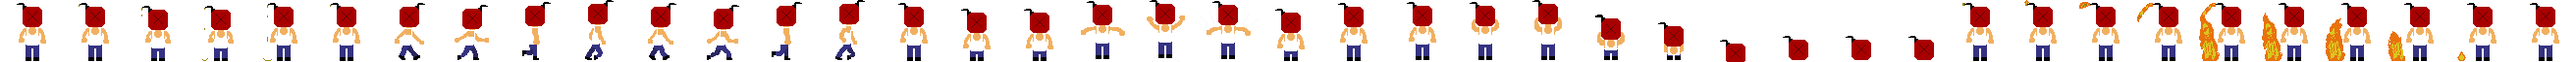
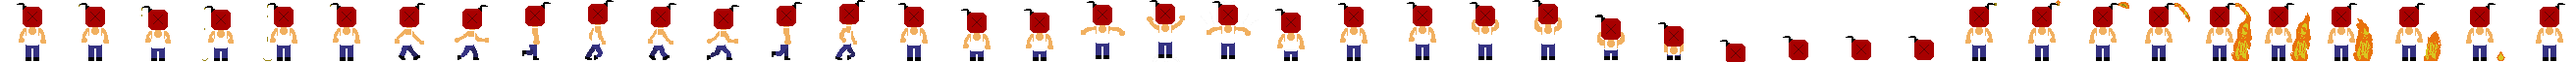
pretty much done

Changed region(s): [[0.75, 0.0312, 1.0, 1.0]]

diff --git a/GDS_126_Engine/GDS_126_Engine/js/GameStates/menu.js b/GDS_126_Engine/GDS_126_Engine/js/GameStates/menu.js
@@ -3,14 +3,14 @@ This file contains all of the code for the Main Menu
 ----------------------------------*/
 
 var startButton = new GameObject();
-//startButton.img.src="images/mrt.jpg"
+startButton.img.src="images/Start.png"
 startButton.width=200;
 startButton.hitBoxWidth=800
 console.log(startButton.collisionPoints.right)
 
 
 var menuBackground = new GameObject();
-menuBackground.img.src = "images/mrt.jpg"
+menuBackground.img.src = "images/menu.png"
 menuBackground.width=canvas.width
 menuBackground.height=canvas.height
 

diff --git a/GDS_126_Engine/GDS_126_Engine/js/Data/player.js b/GDS_126_Engine/GDS_126_Engine/js/Data/player.js
@@ -111,6 +111,23 @@ var playerData ={
 				
 			]
 		}
+	}	
+}
+var playerShot ={
+	info:{
+		src:`images/fire.png`
+	},
+	states:{
+    	idle:
+		{
+			fps:15,
+			cycle:true,
+			frames:
+			[
+				{width:64, height:64, startX:0, startY:0},
+				{width:64, height:64, startX:64, startY:0},
+				{width:64, height:64, startX:128, startY:0}
+			]
+		}
 	}
-		
 }

diff --git a/GDS_126_Engine/GDS_126_Engine/js/GameStates/level1.js b/GDS_126_Engine/GDS_126_Engine/js/GameStates/level1.js
@@ -89,9 +89,9 @@ for(let i=0; i<100; i++)
 {
 	bullets[i] = new GameObject({width:64, height:64})
 	//bullets[i].img.src="images/mrt.jpg"
-	bullets[i].makeSprite(playerData)
+	bullets[i].makeSprite(playerShot)
 	bullets[i].y=-10000
-	bullets[i].changeState(`walk`)
+	bullets[i].changeState(`idle`)
 }
 
 //console.log(bullets)
